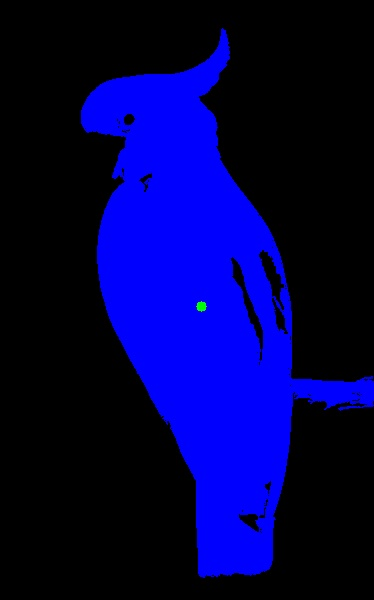
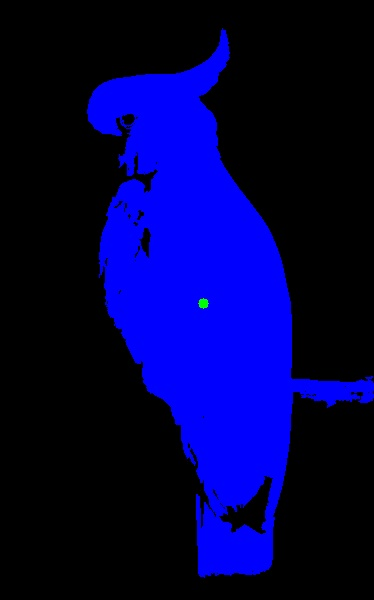
refactor: 20 - 22

diff --git a/22/22.py b/22/22.py
@@ -1,11 +1,9 @@
 import cv2 as cv
 import numpy as np
-import matplotlib.pyplot as plt
-#import pyautogui
 
-
-imagemOriginal = cv.imread('C:/enviroment/learningOpenCV/22/papagaioDoCongo.webp')
-altura, largura, canal = imagemOriginal.shape
+imagemOriginal = cv.imread('C:/enviroment/learningOpenCV/22/imagemGerada.png')
+imagemCinza = cv.cvtColor(imagemOriginal, cv.COLOR_BGR2GRAY)
+altura, largura = imagemCinza.shape
 print(f'Altura: {altura}, Largura: {largura}')
 
 def selecionarSeed(event, x, y, flags, param):
@@ -15,63 +13,55 @@ def selecionarSeed(event, x, y, flags, param):
         algoritmoDeCrescimentoDeRegiao(seed)
 
 def algoritmoDeCrescimentoDeRegiao(seed):
-   corSemente = imagemOriginal[seed]
-   rangeTolerado = 35 #definindo a variacao de cor q aceitamos
-   regiao = np.zeros((altura, largura), dtype=np.uint8)
-   listaDePixels = [seed] #lista criada começando com a seed sendo passada e ela n pode ser vazia
-   pixelsVisitados = np.zeros((altura, largura), dtype=bool)
-   pixelsVisitados[seed] = True
-   vizinhos = [(-1, 0), (1, 0), (0, -1), (0, 1)] #cima, baixo, esquerda, direita
+    regiao = np.zeros((altura, largura), dtype=np.uint8)
+    listaDePixels = [seed]
+    pixelsVisitados = np.zeros((altura, largura), dtype=bool)
+    pixelsVisitados[seed] = True
     
+    vizinhos = [(-1, 0), (1, 0), (0, -1), (0, 1)]
 
-   while len(listaDePixels) > 0:
-     yAtual, xAtual = listaDePixels.pop(0)
-     regiao[yAtual, xAtual] = 255 #marca o pixel atual como parte da região
-     for dy, dx in vizinhos:
-        yVizinho = yAtual + dy
-        xVizinho = xAtual + dx
+    while len(listaDePixels) > 0:
+        yAtual, xAtual = listaDePixels.pop(0)
+        regiao[yAtual, xAtual] = 255
+        
+        for dy, dx in vizinhos:
+            yVizinho = yAtual + dy
+            xVizinho = xAtual + dx
 
-        if 0 <= yVizinho < altura and 0 <= xVizinho < largura:
-           if not pixelsVisitados[yVizinho, xVizinho]: #Se for falso, significa que o pixel ainda não foi visitado
-              pixelsVisitados[yVizinho, xVizinho] = True #marca como visitado
-              corVizinho = imagemOriginal[yVizinho, xVizinho] #pegando a cor bgr dos pixels vizinho na imagem original
-              distancia = np.linalg.norm(corVizinho.astype(int) - corSemente.astype(int))
+            if 0 <= yVizinho < altura and 0 <= xVizinho < largura:
+                if not pixelsVisitados[yVizinho, xVizinho]:
+                    pixelsVisitados[yVizinho, xVizinho] = True
+                    if imagemCinza[yVizinho, xVizinho] < 127:
+                        listaDePixels.append((yVizinho, xVizinho))
 
-              if distancia < rangeTolerado:
-                 listaDePixels.append((yVizinho, xVizinho)) #adiciona a coordenada no final da fila
-  
-   #CoDIGO DA Questao 11 reaproveitado
-   contadorX = 0
-   contadorY = 0
-   contadorPixels = 0
+    imagemResultado = np.zeros((altura, largura, 3), dtype=np.uint8)
+    imagemResultado[regiao == 255] = [255, 0, 0]
+    
+    somaX = 0
+    somaY = 0
+    contadorDePixels = 0
+    
+    for i in range(altura):
+        for j in range(largura):
+            if regiao[i, j] == 255:
+                somaX += j
+                somaY += i
+                contadorDePixels += 1
 
-   for i in range(altura): #linha  -> y
-      for j in range(largura): #coluna -> x
-         pixel = regiao[i, j]
-         if pixel == 255: #se o pixel for parte da região crescida
-               contadorX += j
-               contadorY += i
-               contadorPixels += 1
+    if contadorDePixels > 0:
+        xc = somaX // contadorDePixels
+        yc = somaY // contadorDePixels
+        print(f"Centróide calculated: Xc={xc}, Yc={yc}")
+        
+        cv.circle(imagemResultado, (xc, yc), 4, (0, 255, 0), -1)
 
-   if contadorPixels > 0:
-      centroX = contadorX / contadorPixels
-      centroY = contadorY / contadorPixels
-      #achando as coordenadas do centro
-      print('Centro X: ', centroX)
-      print('Centro Y: ', centroY)
-
-      imagemColorida = np.zeros((altura, largura, 3), dtype=np.uint8)
-      imagemColorida[regiao == 255] = [255, 0, 0]  # Azul para a região crescida
-      cv.circle(imagemColorida, (int(centroX), int(centroY)), 5, (0, 255, 0), -1)
-      cv.imwrite('C:/enviroment/learningOpenCV/22/imagemGerada.jpg', imagemColorida)
-      cv.imshow('Imagem com Centro', imagemColorida)
-   else:
-      print('Nenhum pixel  encontrado na imagem.')
+        cv.imshow('Regiao azul com centroide', imagemResultado)
+        cv.imwrite('C:/enviroment/learningOpenCV/22/resultadoQ22.png', imagemResultado)
 
 nomeJanela = 'Clique na imagem para selecionar a seed'
 cv.namedWindow(nomeJanela)
 cv.setMouseCallback(nomeJanela, selecionarSeed)
-cv.imshow(nomeJanela, imagemOriginal)
+cv.imshow(nomeJanela, imagemCinza)
 
 cv.waitKey(0)
 cv.destroyAllWindows()

diff --git a/24/24.py b/24/24.py
@@ -1,0 +1,77 @@
+import cv2 as cv
+import numpy as np
+import matplotlib.pyplot as plt
+#import pyautogui
+
+
+imagemOriginal = cv.imread('C:/enviroment/learningOpenCV/24/papagaioDoCongo.webp')
+altura, largura, canal = imagemOriginal.shape
+print(f'Altura: {altura}, Largura: {largura}')
+
+def selecionarSeed(event, x, y, flags, param):
+    if event == cv.EVENT_LBUTTONDOWN:
+        print(f'Seed selecionada: ({x}, {y})')
+        seed = (y, x)
+        algoritmoDeCrescimentoDeRegiao(seed)
+
+def algoritmoDeCrescimentoDeRegiao(seed):
+   corSemente = imagemOriginal[seed]
+   rangeTolerado = 35 #definindo a variacao de cor q aceitamos
+   regiao = np.zeros((altura, largura), dtype=np.uint8)
+   listaDePixels = [seed] #lista criada começando com a seed sendo passada e ela n pode ser vazia
+   pixelsVisitados = np.zeros((altura, largura), dtype=bool)
+   pixelsVisitados[seed] = True
+   vizinhos = [(-1, 0), (1, 0), (0, -1), (0, 1)] #cima, baixo, esquerda, direita
+    
+
+   while len(listaDePixels) > 0:
+     yAtual, xAtual = listaDePixels.pop(0)
+     regiao[yAtual, xAtual] = 255 #marca o pixel atual como parte da região
+     for dy, dx in vizinhos:
+        yVizinho = yAtual + dy
+        xVizinho = xAtual + dx
+
+        if 0 <= yVizinho < altura and 0 <= xVizinho < largura:
+           if not pixelsVisitados[yVizinho, xVizinho]: #Se for falso, significa que o pixel ainda não foi visitado
+              pixelsVisitados[yVizinho, xVizinho] = True #marca como visitado
+              corVizinho = imagemOriginal[yVizinho, xVizinho] #pegando a cor bgr dos pixels vizinho na imagem original
+              distancia = np.linalg.norm(corVizinho.astype(int) - corSemente.astype(int))
+
+              if distancia < rangeTolerado:
+                 listaDePixels.append((yVizinho, xVizinho)) #adiciona a coordenada no final da fila
+  
+   #CoDIGO DA Questao 11 reaproveitado
+   contadorX = 0
+   contadorY = 0
+   contadorPixels = 0
+
+   for i in range(altura): #linha  -> y
+      for j in range(largura): #coluna -> x
+         pixel = regiao[i, j]
+         if pixel == 255: #se o pixel for parte da região crescida
+               contadorX += j
+               contadorY += i
+               contadorPixels += 1
+
+   if contadorPixels > 0:
+      centroX = contadorX / contadorPixels
+      centroY = contadorY / contadorPixels
+      #achando as coordenadas do centro
+      print('Centro X: ', centroX)
+      print('Centro Y: ', centroY)
+
+      imagemColorida = np.zeros((altura, largura, 3), dtype=np.uint8)
+      imagemColorida[regiao == 255] = [255, 0, 0]  # Azul para a região crescida
+      cv.circle(imagemColorida, (int(centroX), int(centroY)), 5, (0, 255, 0), -1)
+      cv.imwrite('C:/enviroment/learningOpenCV/22/imagemGerada.jpg', imagemColorida)
+      cv.imshow('Imagem com Centro', imagemColorida)
+   else:
+      print('Nenhum pixel  encontrado na imagem.')
+
+nomeJanela = 'Clique na imagem para selecionar a seed'
+cv.namedWindow(nomeJanela)
+cv.setMouseCallback(nomeJanela, selecionarSeed)
+cv.imshow(nomeJanela, imagemOriginal)
+
+cv.waitKey(0)
+cv.destroyAllWindows()
